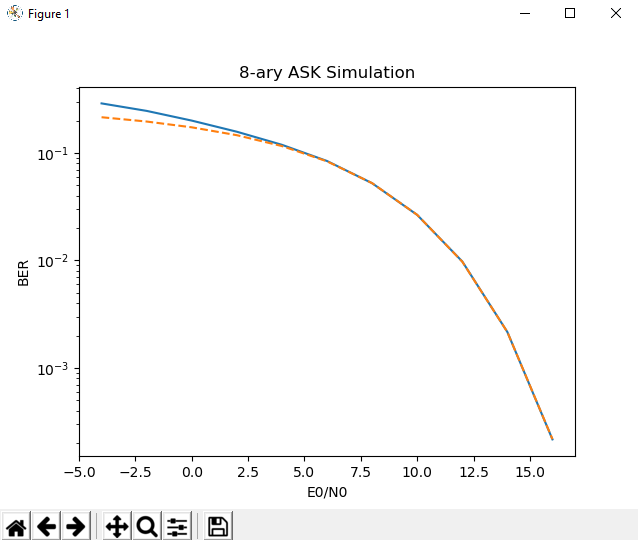
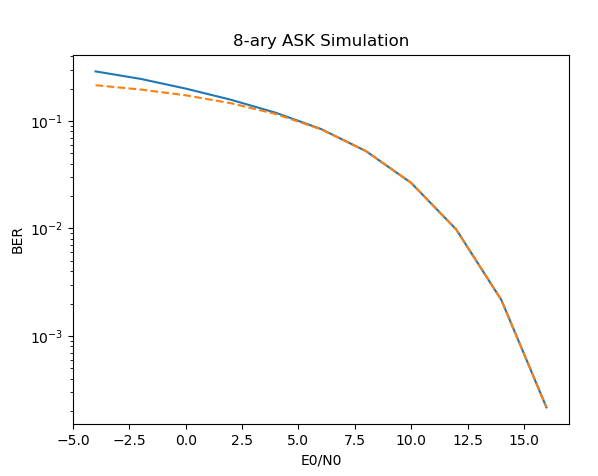
Test README.md

diff --git a/README.md b/README.md
@@ -12,7 +12,9 @@ $ python main.py 1000000
 ```
 
 ## Expected output
-<img align="center" src="output.png">
+<p align="center">
+	<img src="output.png">
+</p>
 
 ## Important Equations
 1. Eb = E0 * summation(ai^2)/N , where N is the total number of bits. In this example assume Eb = 1 to get E0.
